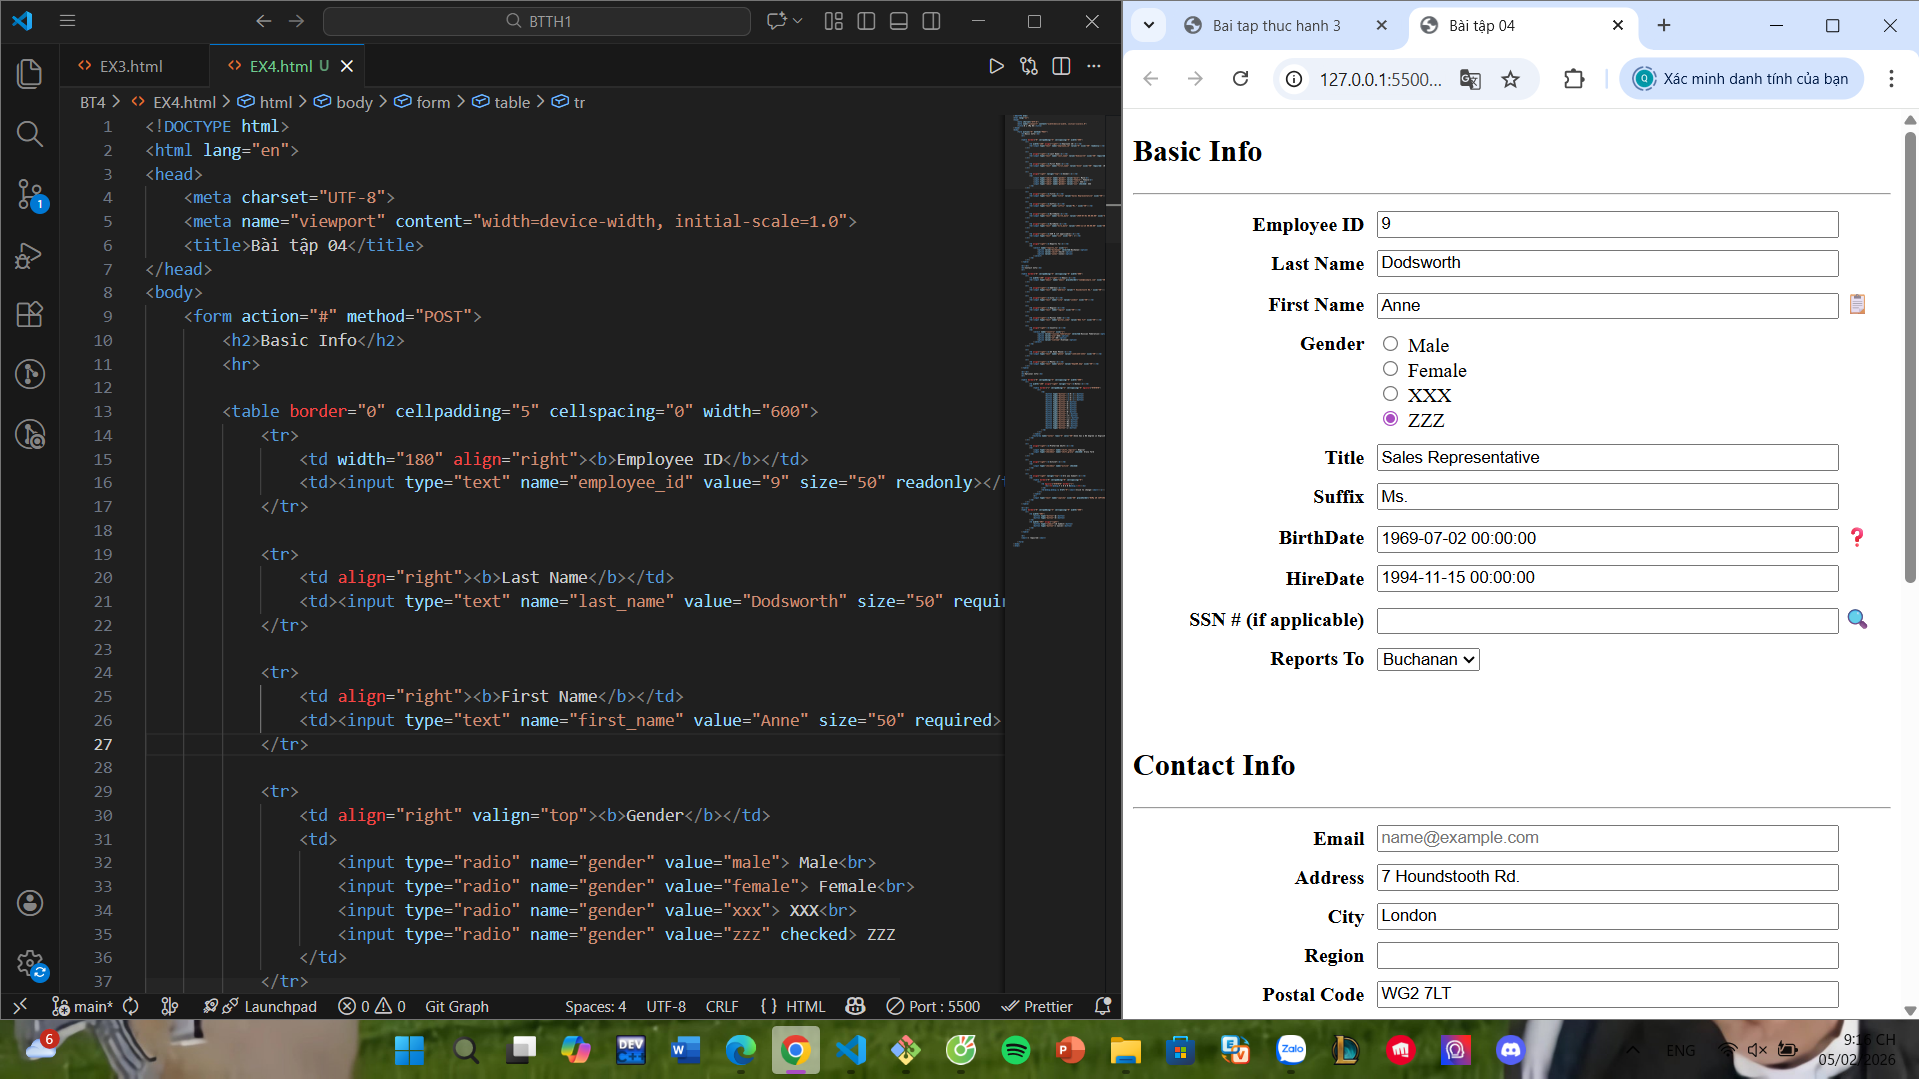
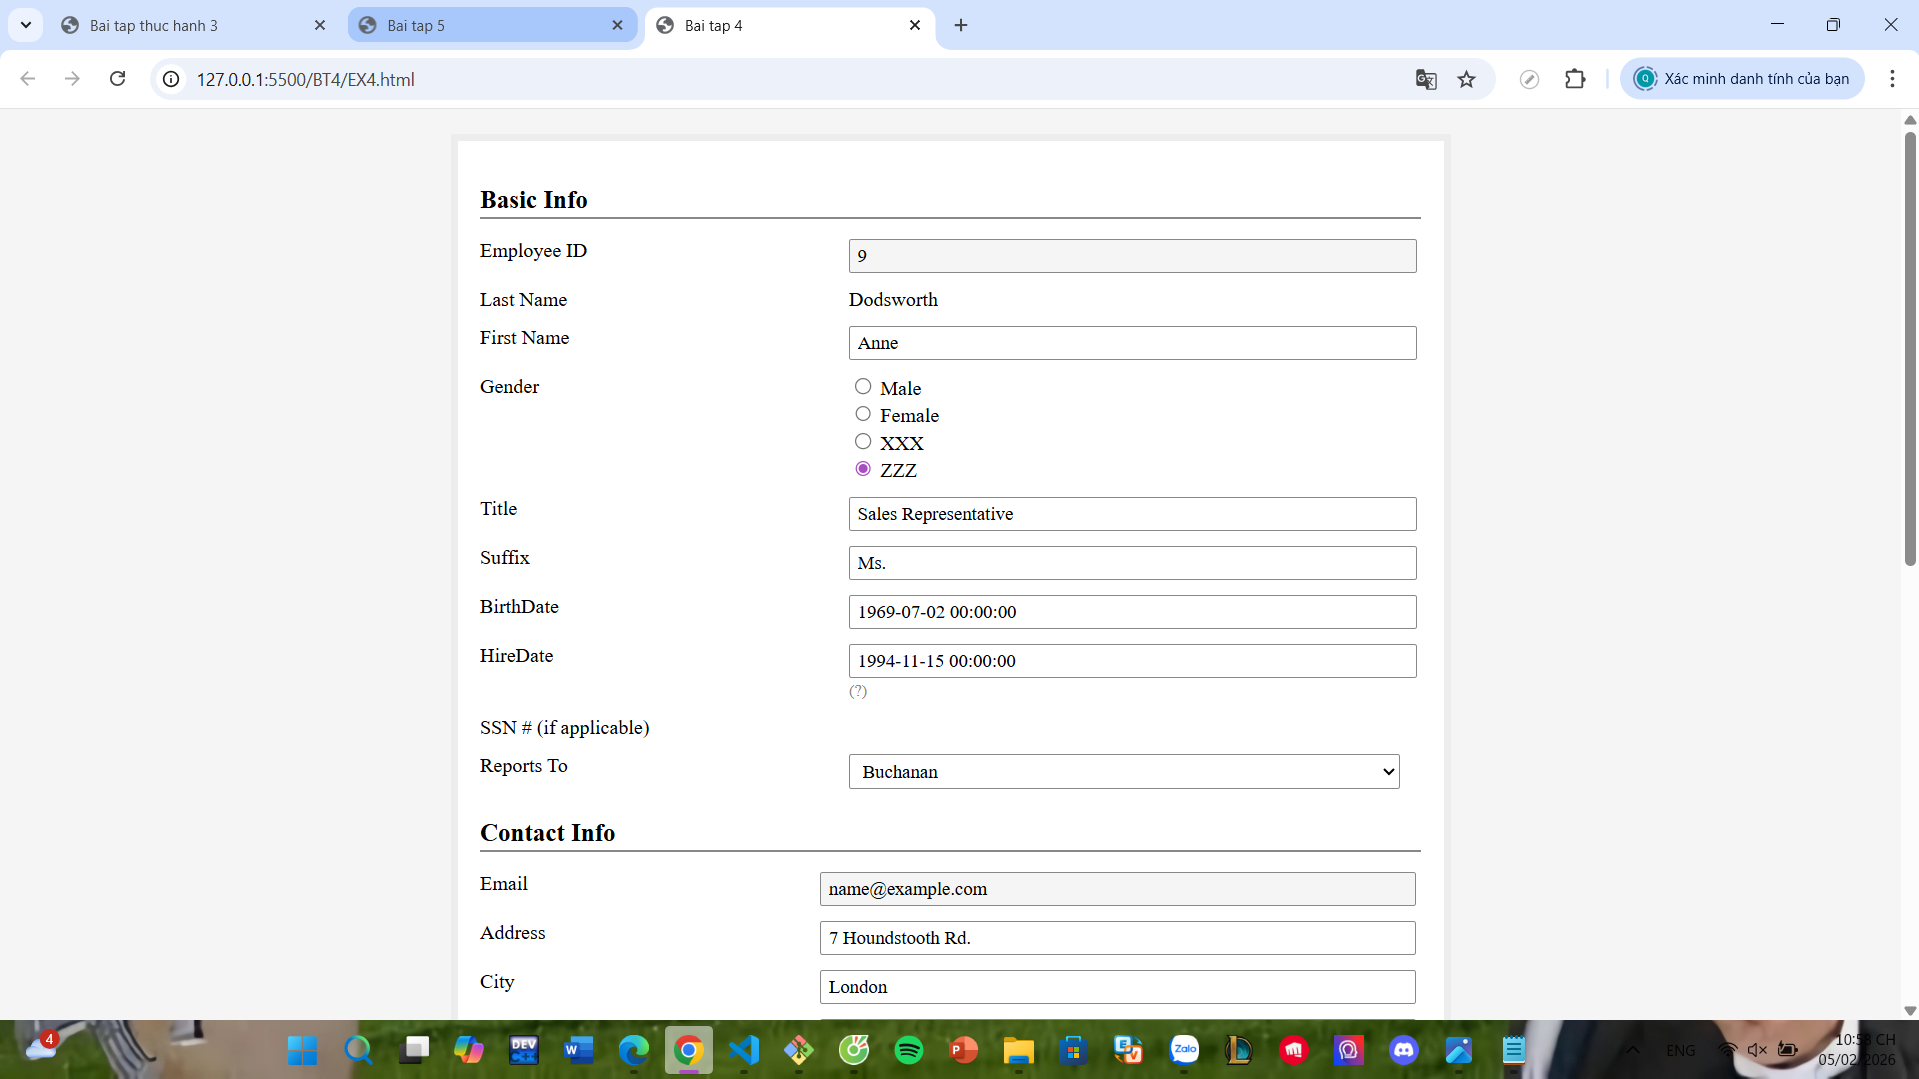
Bai tap 4

diff --git a/BT4/EX4.html b/BT4/EX4.html
@@ -2,215 +2,217 @@
 <html lang="en">
 <head>
     <meta charset="UTF-8">
-    <meta name="viewport" content="width=device-width, initial-scale=1.0">
-    <title>Bài tập 04</title>
+    <title>Bai tap 4</title>
+    <style>
+        body { background: #f5f5f5; }
+        body, input, select, textarea, button {
+            font-family: inherit;
+        }
+        .form-wrapper {
+            background: #fff;
+            border: 6px solid #ededed;
+            max-width: 800px;
+            margin: 20px auto;
+            padding: 18px 18px 0 18px;
+            box-sizing: border-box;
+        }
+        h3 {
+            margin: 18px 0 10px 0;
+            font-size: 20px;
+            font-weight: bold;
+            border-bottom: 2px solid #888;
+            padding-bottom: 2px;
+        }
+        .form-table { width: 100%; border-collapse: collapse; }
+        .form-table td { padding: 6px 8px 6px 0; vertical-align: top; }
+        .form-table input[type="text"],
+        .form-table input[type="email"],
+        .form-table input[type="date"],
+        .form-table select {
+            width: 98%; padding: 4px 6px; font-size: 15px;
+            border: 1px solid #888; border-radius: 2px;
+        }
+        .form-table textarea {
+            width: 98%; height: 90px; font-size: 15px;
+            border: 1px solid #888; border-radius: 2px; resize: vertical;
+        }
+        .form-table .radio-group { display: flex; flex-direction: column; gap: 2px; }
+        .form-table .checkbox-group { display: flex; flex-direction: column; gap: 2px; }
+        .form-table .captcha {
+            font-family: 'Courier New', monospace; font-size: 28px;
+            letter-spacing: 4px; font-weight: bold; color: #444;
+        }
+        .form-table .toolbar {
+            background: #f8f8f8; border: 1px solid #bbb; border-bottom: none;
+            padding: 4px 6px; margin-bottom: 0;
+        }
+        .form-table .toolbar button {
+            background: #fff; border: 1px solid #bbb; margin-right: 2px;
+            font-size: 13px; padding: 2px 6px; cursor: pointer;
+        }
+        .form-actions { text-align: right; padding: 12px 0 12px 0; }
+        .form-actions button {
+            background: #444; color: #fff; border: 1px solid #222; border-radius: 2px;
+            padding: 6px 18px; font-size: 15px; margin-left: 6px; cursor: pointer;
+        }
+        .form-actions button.cancel { background: #888; border: 1px solid #666; }
+        .required { color: #c00; font-size: 13px; }
+        .note { color: #888; font-size: 13px; }
+        .nav-btns { padding: 8px 0 0 0; }
+        .nav-btns button {
+            background: #fff; border: 1px solid #888; border-radius: 2px;
+            font-size: 18px; padding: 2px 10px; margin-right: 2px; cursor: pointer;
+        }
+    </style>
 </head>
 <body>
-    <form action="#" method="POST">
-        <h2>Basic Info</h2>
-        <hr>
-        
-        <table border="0" cellpadding="5" cellspacing="0" width="600">
+<div class="form-wrapper">
+    <form>
+        <h3>Basic Info</h3>
+        <table class="form-table">
             <tr>
-                <td width="180" align="right"><b>Employee ID</b></td>
-                <td><input type="text" name="employee_id" value="9" size="50" readonly></td>
+                <td>Employee ID</td>
+                <td><input type="text" value="9" readonly style="background:#f5f5f5;"></td>
             </tr>
-            
             <tr>
-                <td align="right"><b>Last Name</b></td>
-                <td><input type="text" name="last_name" value="Dodsworth" size="50" required></td>
+                <td>Last Name</td>
+                <td>Dodsworth</td>
             </tr>
-            
             <tr>
-                <td align="right"><b>First Name</b></td>
-                <td><input type="text" name="first_name" value="Anne" size="50" required> 📋</td>
+                <td>First Name</td>
+                <td><input type="text" value="Anne"></td>
             </tr>
-            
             <tr>
-                <td align="right" valign="top"><b>Gender</b></td>
-                <td>
-                    <input type="radio" name="gender" value="male"> Male<br>
-                    <input type="radio" name="gender" value="female"> Female<br>
-                    <input type="radio" name="gender" value="xxx"> XXX<br>
-                    <input type="radio" name="gender" value="zzz" checked> ZZZ
+                <td>Gender</td>
+                <td class="radio-group">
+                    <label><input type="radio" name="gender"> Male</label>
+                    <label><input type="radio" name="gender"> Female</label>
+                    <label><input type="radio" name="gender"> XXX</label>
+                    <label><input type="radio" name="gender" checked> ZZZ</label>
                 </td>
             </tr>
-            
             <tr>
-                <td align="right"><b>Title</b></td>
-                <td><input type="text" name="title" value="Sales Representative" size="50"></td>
+                <td>Title</td>
+                <td><input type="text" value="Sales Representative"></td>
             </tr>
-            
             <tr>
-                <td align="right"><b>Suffix</b></td>
-                <td><input type="text" name="suffix" value="Ms." size="50"></td>
+                <td>Suffix</td>
+                <td><input type="text" value="Ms."></td>
             </tr>
-            
             <tr>
-                <td align="right"><b>BirthDate</b></td>
-                <td><input type="text" name="birth_date" value="1969-07-02 00:00:00" size="50"> ❓</td>
+                <td>BirthDate</td>
+                <td><input type="text" value="1969-07-02 00:00:00"></td>
             </tr>
-            
             <tr>
-                <td align="right"><b>HireDate</b></td>
-                <td><input type="text" name="hire_date" value="1994-11-15 00:00:00" size="50"></td>
+                <td>HireDate</td>
+                <td><input type="text" value="1994-11-15 00:00:00"> <span class="note">(?)</span></td>
             </tr>
-            
             <tr>
-                <td align="right"><b>SSN # (if applicable)</b></td>
-                <td><input type="text" name="ssn" size="50"> 🔍</td>
+                <td>SSN # (if applicable)</td>
+                <td></td>
             </tr>
-            
             <tr>
-                <td align="right"><b>Reports To</b></td>
+                <td>Reports To</td>
                 <td>
-                    <select name="reports_to" size="1">
-                        <option value="buchanan" selected>Buchanan</option>
-                        <option value="smith">Smith</option>
-                        <option value="jones">Jones</option>
+                    <select>
+                        <option>Buchanan</option>
                     </select>
                 </td>
             </tr>
         </table>
-        
-        <br><br>
-        <h2>Contact Info</h2>
-        <hr>
-        
-        <table border="0" cellpadding="5" cellspacing="0" width="600">
+        <h3>Contact Info</h3>
+        <table class="form-table">
             <tr>
-                <td width="180" align="right"><b>Email</b></td>
-                <td><input type="email" name="email" placeholder="name@example.com" size="50"></td>
+                <td>Email</td>
+                <td><input type="email" value="name@example.com" readonly style="background:#f5f5f5;"></td>
             </tr>
-            
             <tr>
-                <td align="right"><b>Address</b></td>
-                <td><input type="text" name="address" value="7 Houndstooth Rd." size="50"></td>
+                <td>Address</td>
+                <td><input type="text" value="7 Houndstooth Rd."></td>
             </tr>
-            
             <tr>
-                <td align="right"><b>City</b></td>
-                <td><input type="text" name="city" value="London" size="50"></td>
+                <td>City</td>
+                <td><input type="text" value="London"></td>
             </tr>
-            
             <tr>
-                <td align="right"><b>Region</b></td>
-                <td><input type="text" name="region" size="50"></td>
+                <td>Region</td>
+                <td><input type="text"></td>
             </tr>
-            
             <tr>
-                <td align="right"><b>Postal Code</b></td>
-                <td><input type="text" name="postal_code" value="WG2 7LT" size="50"></td>
+                <td>Postal Code</td>
+                <td><input type="text" value="WG2 7LT"></td>
             </tr>
-            
             <tr>
-                <td align="right"><b>Country</b></td>
+                <td>Country</td>
                 <td>
-                    <select name="country" size="1">
-                        <option value="russian_federation" selected>Russian Federation</option>
-                        <option value="usa">USA</option>
-                        <option value="uk">UK</option>
-                        <option value="vietnam">Vietnam</option>
+                    <select>
+                        <option>Russian Federation</option>
                     </select>
                 </td>
             </tr>
-            
             <tr>
-                <td align="right"><b>US Home Phone</b></td>
-                <td><input type="text" name="phone" value="(234)234-2342" size="50"></td>
+                <td>US Home Phone</td>
+                <td><input type="text" value="(234)234-2342"></td>
             </tr>
-            
             <tr>
-                <td align="right"><b>Photo</b></td>
-                <td><input type="text" name="photo" value="EmpID9.bmp" size="50"></td>
+                <td>Photo</td>
+                <td><input type="text" value="EmpID9.bmp"></td>
             </tr>
         </table>
-        
-        <br><br>
-        <h2>Optional Info</h2>
-        <hr>
-        
-        <table border="0" cellpadding="5" cellspacing="0" width="600">
+        <h3>Optional Info</h3>
+        <table class="form-table">
             <tr>
-                <td width="180" align="right" valign="top"><b>Notes</b></td>
+                <td>Notes</td>
                 <td>
-                    <table border="1" cellpadding="2" cellspacing="0" bgcolor="#f0f0f0">
-                        <tr>
-                            <td>
-                                <button type="button"><b>B</b></button>
-                                <button type="button"><i>I</i></button>
-                                <button type="button"><u>U</u></button>
-                                <button type="button"><s>S</s></button>
-                                <button type="button">≡</button>
-                                <button type="button">≡</button>
-                                <button type="button">≡</button>
-                                <button type="button">⇦</button>
-                                <button type="button">⇨</button>
-                                <button type="button">•</button>
-                                <button type="button">1.</button>
-                                <button type="button">🔗</button>
-                                <button type="button">🖼</button>
-                                <button type="button">📹</button>
-                                <button type="button">H1</button>
-                                <button type="button">H2</button>
-                                <button type="button">H3</button>
-                                <button type="button">❌</button>
-                            </td>
-                        </tr>
-                    </table>
-                   <textarea name="notes" rows="6" cols="60">Anne has a BA degree in English from St. Lawrence College. She is fluent in French and German.ZZZ</textarea>
+                    <div class="toolbar">
+                        <button type="button"><b>B</b></button>
+                        <button type="button"><i>I</i></button>
+                        <button type="button"><u>U</u></button>
+                        <button type="button">•</button>
+                        <button type="button">1.</button>
+                        <button type="button">H1</button>
+                        <button type="button">H2</button>
+                        <button type="button">H3</button>
+                        <button type="button" style="color:#c00;">✖</button>
+                        <button type="button">↶</button>
+                        <button type="button">↷</button>
+                        <button type="button">🔗</button>
+                        <button type="button">⛶</button>
+                    </div>
+                    <textarea>Anne has a BA degree in English from St. Lawrence College.
+She is fluent in French and German.ZZZ</textarea>
                 </td>
             </tr>
-            
             <tr>
-                <td align="right"><b>Preferred Shift</b></td>
-                <td>
-                    <input type="checkbox" name="shift_regular"> Regular
-                    <input type="checkbox" name="shift_gravy" checked> Gravy Yard
+                <td>Preferred Shift</td>
+                <td class="checkbox-group">
+                    <label><input type="checkbox"> Regular</label>
+                    <label><input type="checkbox" checked> Gravy Yard</label>
                 </td>
             </tr>
-            
             <tr>
-                <td align="right"><b>Active?</b></td>
-                <td>
-                    <input type="checkbox" name="active" checked>
-                </td>
+                <td>Active?</td>
+                <td><input type="checkbox" checked></td>
             </tr>
-            
             <tr>
-                <td align="right" valign="top"><b>Are you human?</b></td>
+                <td>Are you human?</td>
                 <td>
-                    <table border="0" cellpadding="0" cellspacing="0">
-                        <tr>
-                            <td bgcolor="#f0f0f0" border="1">
-                                <h1><tt>&nbsp;T I D A W O&nbsp;</tt></h1>
-                            </td>
-                            <td>&nbsp;&nbsp;<a href="#"><small>Click to change</small></a></td>
-                        </tr>
-                    </table>
-                    <br>
-                    <input type="text" name="captcha" size="60" placeholder="Nhập mã CAPTCHA">
+                    <div class="captcha">TIDAWO</div>
+                    <div style="margin: 6px 0 6px 0; color:#444; cursor:pointer;">Click to change</div>
+                    <input type="text" style="width:98%;">
                 </td>
             </tr>
         </table>
-        
-        <br><br>
-        <table border="0" cellpadding="5" cellspacing="0" width="600">
-            <tr>
-                <td width="50%">
-                    <button type="button">◀</button>
-                    <button type="button">▶</button>
-                </td>
-                <td width="50%" align="right">
-                    <button type="submit">📄 Submit</button>
-                    <button type="button">✖ Cancel</button>
-                </td>
-            </tr>
-        </table>
-        
-        <br>
-        <small>* required</small>
-        
+        <div class="form-actions">
+            <button type="submit">Submit</button>
+            <button type="button" class="cancel">Cancel</button>
+        </div>
+        <div class="nav-btns">
+            <button type="button">◀</button>
+            <button type="button">▶</button>
+        </div>
+        <div class="note" style="padding:8px 0 8px 0;">* required</div>
     </form>
+</div>
 </body>
 </html>
